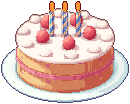
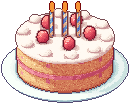
面点五件加上图纸那套颗粒和描边；读完 Rainholm 小屋手记，要点记进参考提炼
## 面点

小蛋糕、曲奇牛奶、松饼、披萨、三明治：蛋糕胚、曲奇、松饼、饼边、面包加颗粒（0.5–0.7）和亮点，
草莓、糖浆、芝士加亮点；接触描边、去掉描边里那圈浓色（跟可颂试出来的那套一样）。

## Rainholm

她问「之前发给你的别人的小屋你参考了吗」——没有。上个窗口只把 PDF 文字提出来，没读。
这次 20 页读完，能用在我们这边的写进 参考提炼.md 最后一节（一屏画满、屋子本身按同一套色标重画、
格子 A* 寻路、日夜只一个状态源、气泡等声音开始再冒、中灰对照板……），哪些已有、哪些值得做都标了。
SKILL.md 验收那节加：对照图用中灰 #9A9A9A；她说还不像时照原话和她给的图改。

diff --git a/scripts/px_tabletop.py b/scripts/px_tabletop.py
@@ -294,10 +294,12 @@ def bubbletea(s, R, T):
 @item("cake", "小蛋糕", units=4.8, ty=1.1, h=1.05)
 def cake(s, R, T):
     plate(s, color="#EDF2F0")
-    sponge = M("sponge", "#F4C98A")
-    cream = M("cream", "#FFF8F0", gloss=0.3, anchor=0.7)
-    jam = M("jam", "#EE8A9C", steps=5)
-    berry = M("berry", "#E5505F", steps=5, gloss=0.9)
+    # 面点这一批照拼豆图纸的做法：颗粒、亮点、接触描边、去掉描边里那圈浓色（见 SKILL.md）
+    s.seam, s.seam_depth, s.seam_all, s.inner_ring, s.contour = 1, 3, True, False, True
+    sponge = M("sponge", "#F4C98A", steps=7, grain=0.6, streak=0.3)
+    cream = M("cream", "#FFF8F0", gloss=0.3, anchor=0.7, grain=0.15)
+    jam = M("jam", "#EE8A9C", steps=5, grain=0.3)
+    berry = M("berry", "#E5505F", steps=6, gloss=0.9, grain=0.25, streak=0.5)
     wax = M("wax", "#FFF3D6", steps=5)
     flame = M("flame", "#FFA32E", steps=3, emissive=True)
     stripe = M("stripe", "#86BFD3", steps=5)
@@ -496,9 +498,10 @@ def hotpot(s, R, T):
 @item("cookies", "曲奇牛奶", units=4.4, ty=1.2, h=1.1)
 def cookies(s, R, T):
     plate(s, r=1.3, color="#F4E9E1")
+    s.seam, s.seam_depth, s.seam_all, s.inner_ring, s.contour = 1, 3, True, False, True
     milk = M("milk", "#FFFFFF", steps=6, gloss=0.8)
     glass = M("glass", "#DDEFF4", steps=6, gloss=1.0)
-    cookie = M("cookie", "#E0A968", steps=5)
+    cookie = M("cookie", "#E0A968", steps=7, grain=0.7, streak=0.3)
     chip = M("chip", "#6B4430", steps=3)
     g = R * 0.95 + T * -0.6
     s.add(lathe([(0, 0), (0.55, 0), (0.62, 1.9), (0.52, 1.9), (0.48, 0.12), (0, 0.12)]).at(g[0], 0, g[2]), glass, "glass")
@@ -672,8 +675,9 @@ def fruitbowl(s, R, T):
 @item("pancakes", "松饼", units=4.6, ty=0.9, h=1.0)
 def pancakes(s, R, T):
     plate(s, color="#EAF1F5")
-    cake_m = M("pancake", "#EDBB78", steps=6)
-    syrup = M("syrup", "#C67A3A", steps=5, gloss=0.9)
+    s.seam, s.seam_depth, s.seam_all, s.inner_ring, s.contour = 1, 3, True, False, True
+    cake_m = M("pancake", "#EDBB78", steps=7, grain=0.6, streak=0.3)
+    syrup = M("syrup", "#C67A3A", steps=6, gloss=0.9, streak=0.5)
     butter = M("butter", "#FFE9A3", steps=4, gloss=0.4)
     berry = M("berry", "#6D7CC7", steps=4, gloss=0.8)
     straw = M("straw", "#E86A78", steps=4, gloss=0.8)
@@ -693,10 +697,11 @@ def pancakes(s, R, T):
 
 @item("pizza", "披萨", units=5.0, ty=0.4, h=0.75)
 def pizza(s, R, T):
-    board = M("board", "#D4A676", steps=6)
-    crust = M("crust", "#E8B06A", steps=6)
+    s.seam, s.seam_depth, s.seam_all, s.inner_ring, s.contour = 1, 3, True, False, True
+    board = M("board", "#D4A676", steps=6, grain=0.5)
+    crust = M("crust", "#E8B06A", steps=7, grain=0.65, streak=0.35)
     sauce = M("sauce", "#E8745A", steps=4)
-    cheese = M("cheese", "#FFE08A", steps=5, gloss=0.3)
+    cheese = M("cheese", "#FFE08A", steps=6, gloss=0.3, grain=0.4, streak=0.3)
     pep = M("pep", "#D24B3E", steps=4, gloss=0.4, anchor=0.4)
     basil = M("basil", "#6DB36E", steps=3)
     s.add(cylinder(2.2, 0.16, round=0.05), board, "board")
@@ -720,9 +725,10 @@ def pizza(s, R, T):
 @item("sandwich", "三明治", units=4.4, ty=0.8, h=0.9)
 def sandwich(s, R, T):
     plate(s, color="#F1ECE4")
-    bread = M("bread", "#F4DDB0", steps=6)
-    crust = M("crust", "#D29A5A", steps=5)
-    lettuce = M("lettuce", "#9AD27E", steps=4)
+    s.seam, s.seam_depth, s.seam_all, s.inner_ring, s.contour = 1, 3, True, False, True
+    bread = M("bread", "#F4DDB0", steps=7, grain=0.6)
+    crust = M("crust", "#D29A5A", steps=5, grain=0.5)
+    lettuce = M("lettuce", "#9AD27E", steps=5, grain=0.3)
     tomato = M("tomato", "#EC6A5E", steps=4)
     cheese = M("cheese", "#FFD66B", steps=4)
     ham = M("ham", "#F4A7A7", steps=4)

diff --git a/.claude/skills/pixel-art/SKILL.md b/.claude/skills/pixel-art/SKILL.md
@@ -118,5 +118,7 @@ preview([img], "cup_look.png", zoom=4)
 ## 验收
 
 - 一律出放大对照图（最近邻放大，不糊），**跟要替换的原图同高并排**再看
+- 对照图底色用**中灰 #9A9A9A**：灰底没有色相，不会把图的颜色拉偏，边缘软硬一眼看得出（Rainholm 手记的规矩）
+- 她说「还不像」的时候，照她的原话和她给的图去改，不要拿自己的理解去解释为什么已经对了
 - 发给她之前当场重跑一遍再发
 - 生成器是唯一真相：改图改脚本，不手修 PNG
